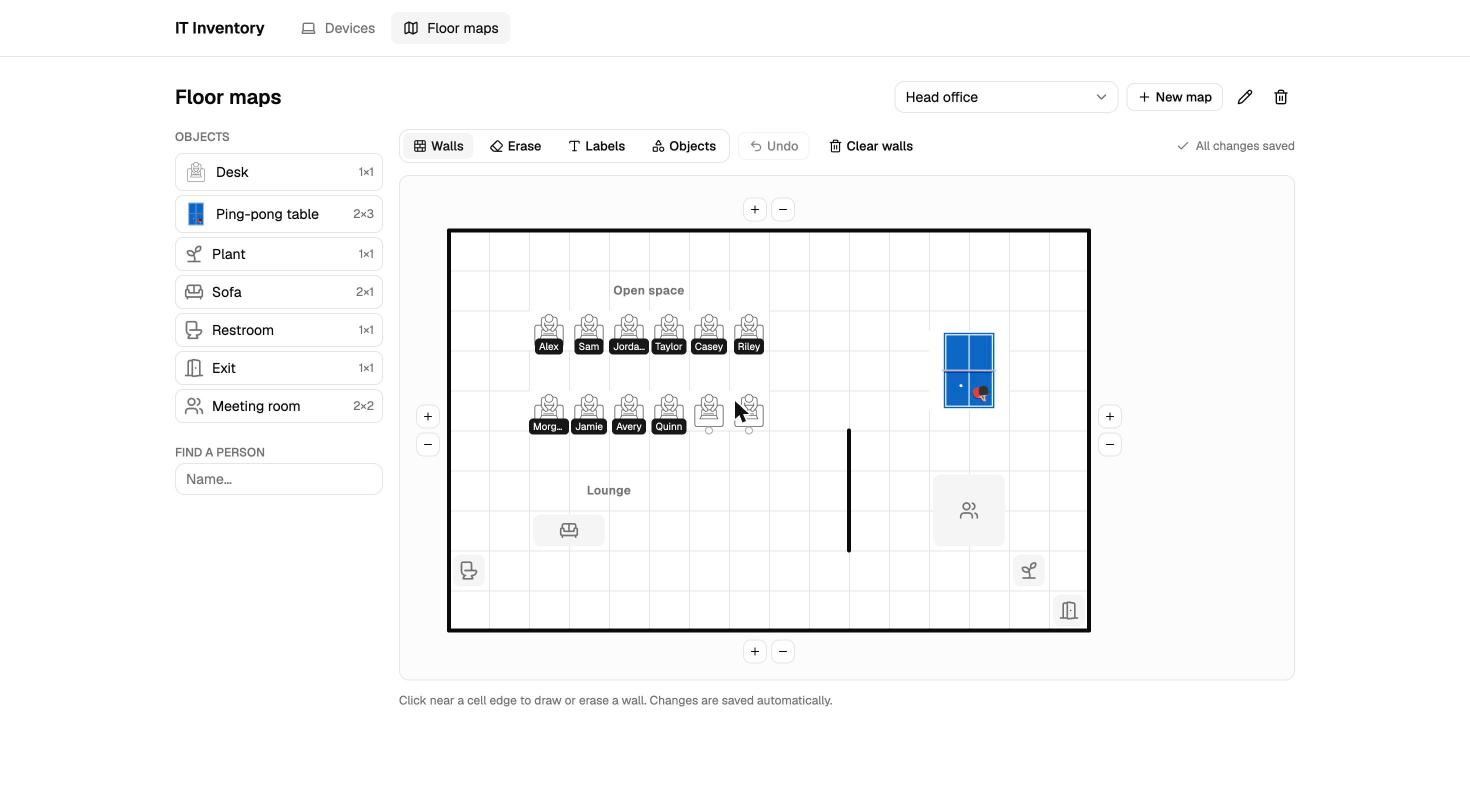
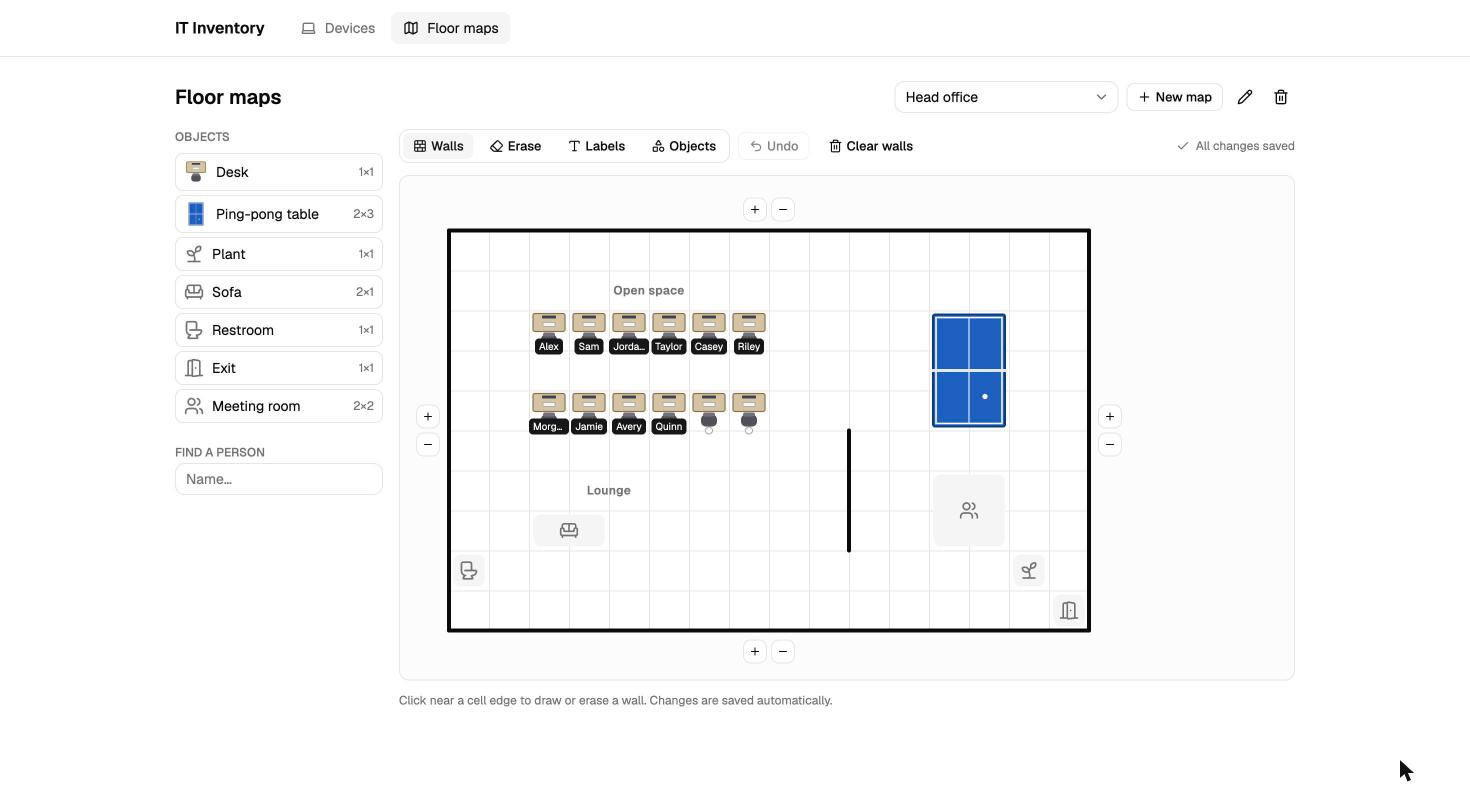
feat(floor-maps): replace third-party desk and ping-pong images with own svgs

diff --git a/apps/web/src/features/floor-maps/components/ObjectVisual.tsx b/apps/web/src/features/floor-maps/components/ObjectVisual.tsx
@@ -5,8 +5,8 @@ import { OBJECT_TYPES, type ObjectType, type Rotation } from '@/features/floor-m
 import { cn } from '@/shared/lib/utils';
 
 const IMAGES: Partial<Record<ObjectType, string>> = {
-  desk: '/floor-map/desk.webp',
-  'ping-pong': '/floor-map/ping-pong.webp',
+  desk: '/floor-map/desk.svg',
+  'ping-pong': '/floor-map/ping-pong.svg',
 };
 
 const ICONS: Partial<Record<ObjectType, LucideIcon>> = {
